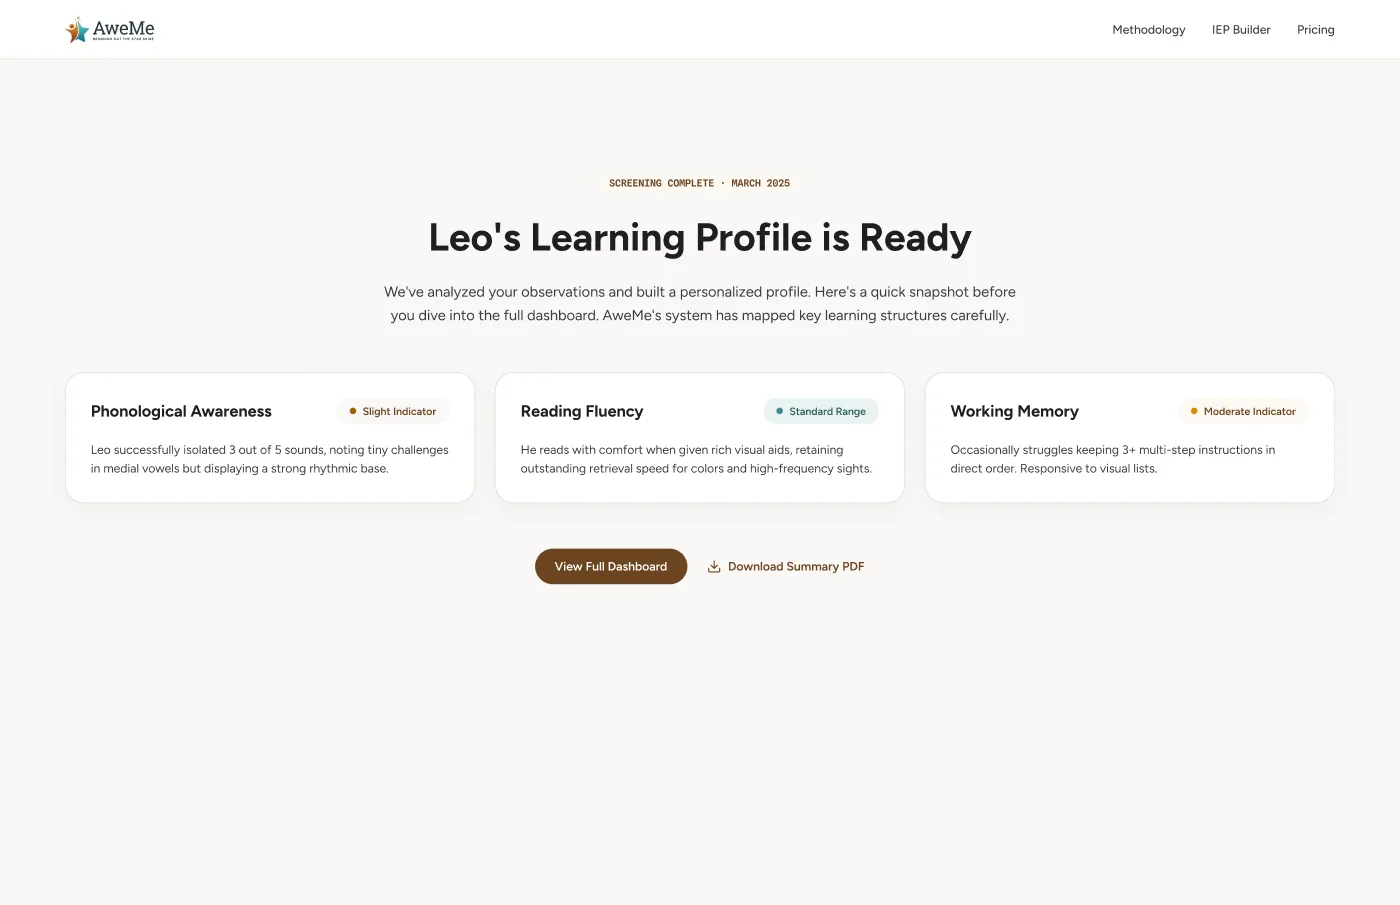
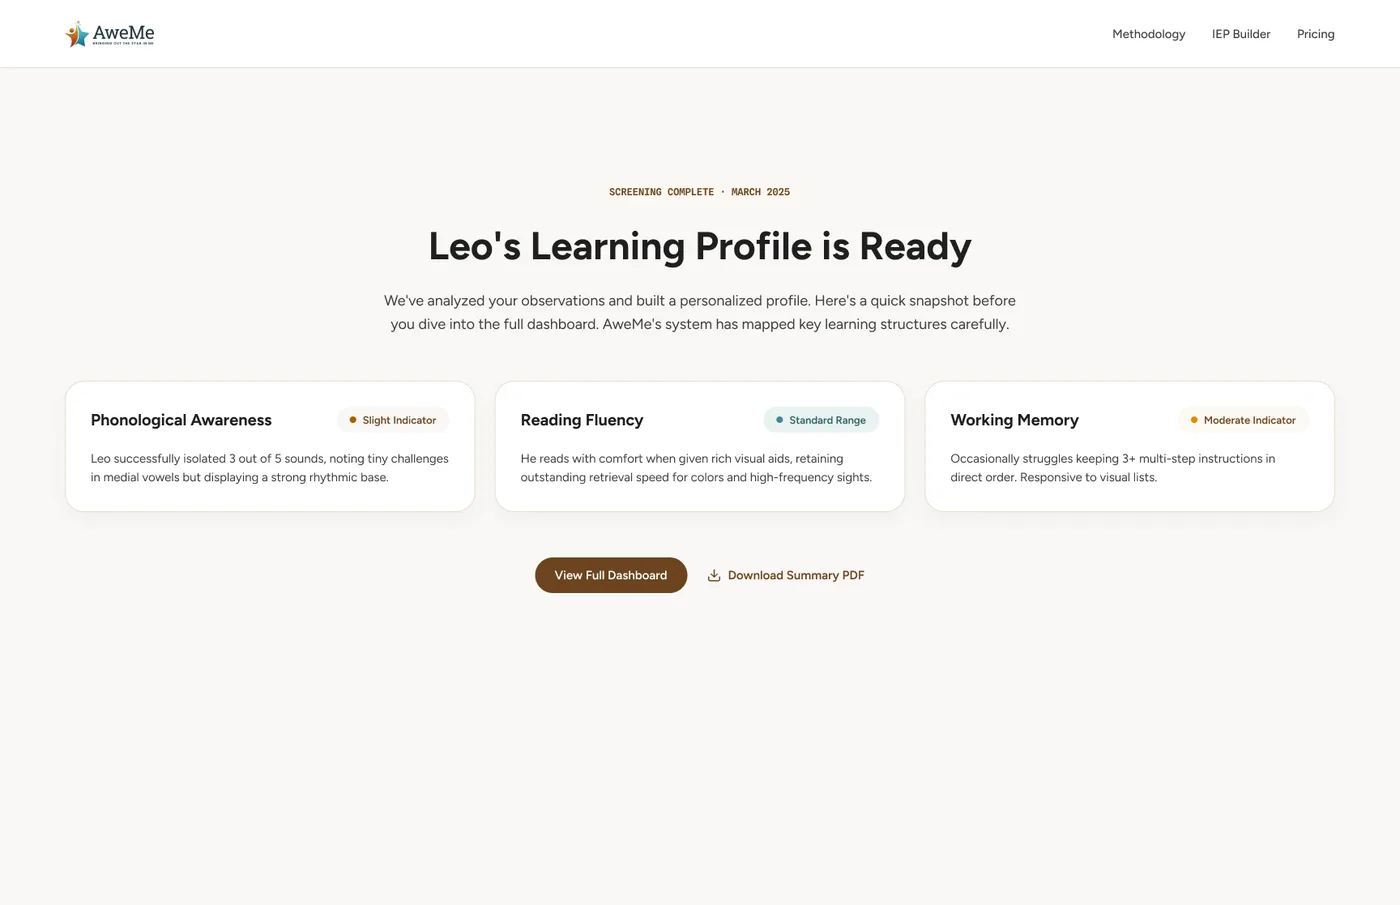
Update AweMe signup and results-reveal screens to latest Figma
Re-exports the signup frame (title copy fix) and results-reveal frame
(layout spacing change) from the current Figma file, and adjusts the
reveal screen's cursor target rects to match the new coordinates.

diff --git a/src/components/aweme/flow.js b/src/components/aweme/flow.js
@@ -85,8 +85,8 @@ const screens = [
     src: reveal,
     // Read one finding, then go to the full dashboard.
     targets: [
-      { rect: [611, 459, 507, 162] },
-      { rect: [660, 677, 188, 44], click: true },
+      { rect: [611, 470, 507, 162] },
+      { rect: [660, 688, 188, 44], click: true },
     ],
   },
   {
